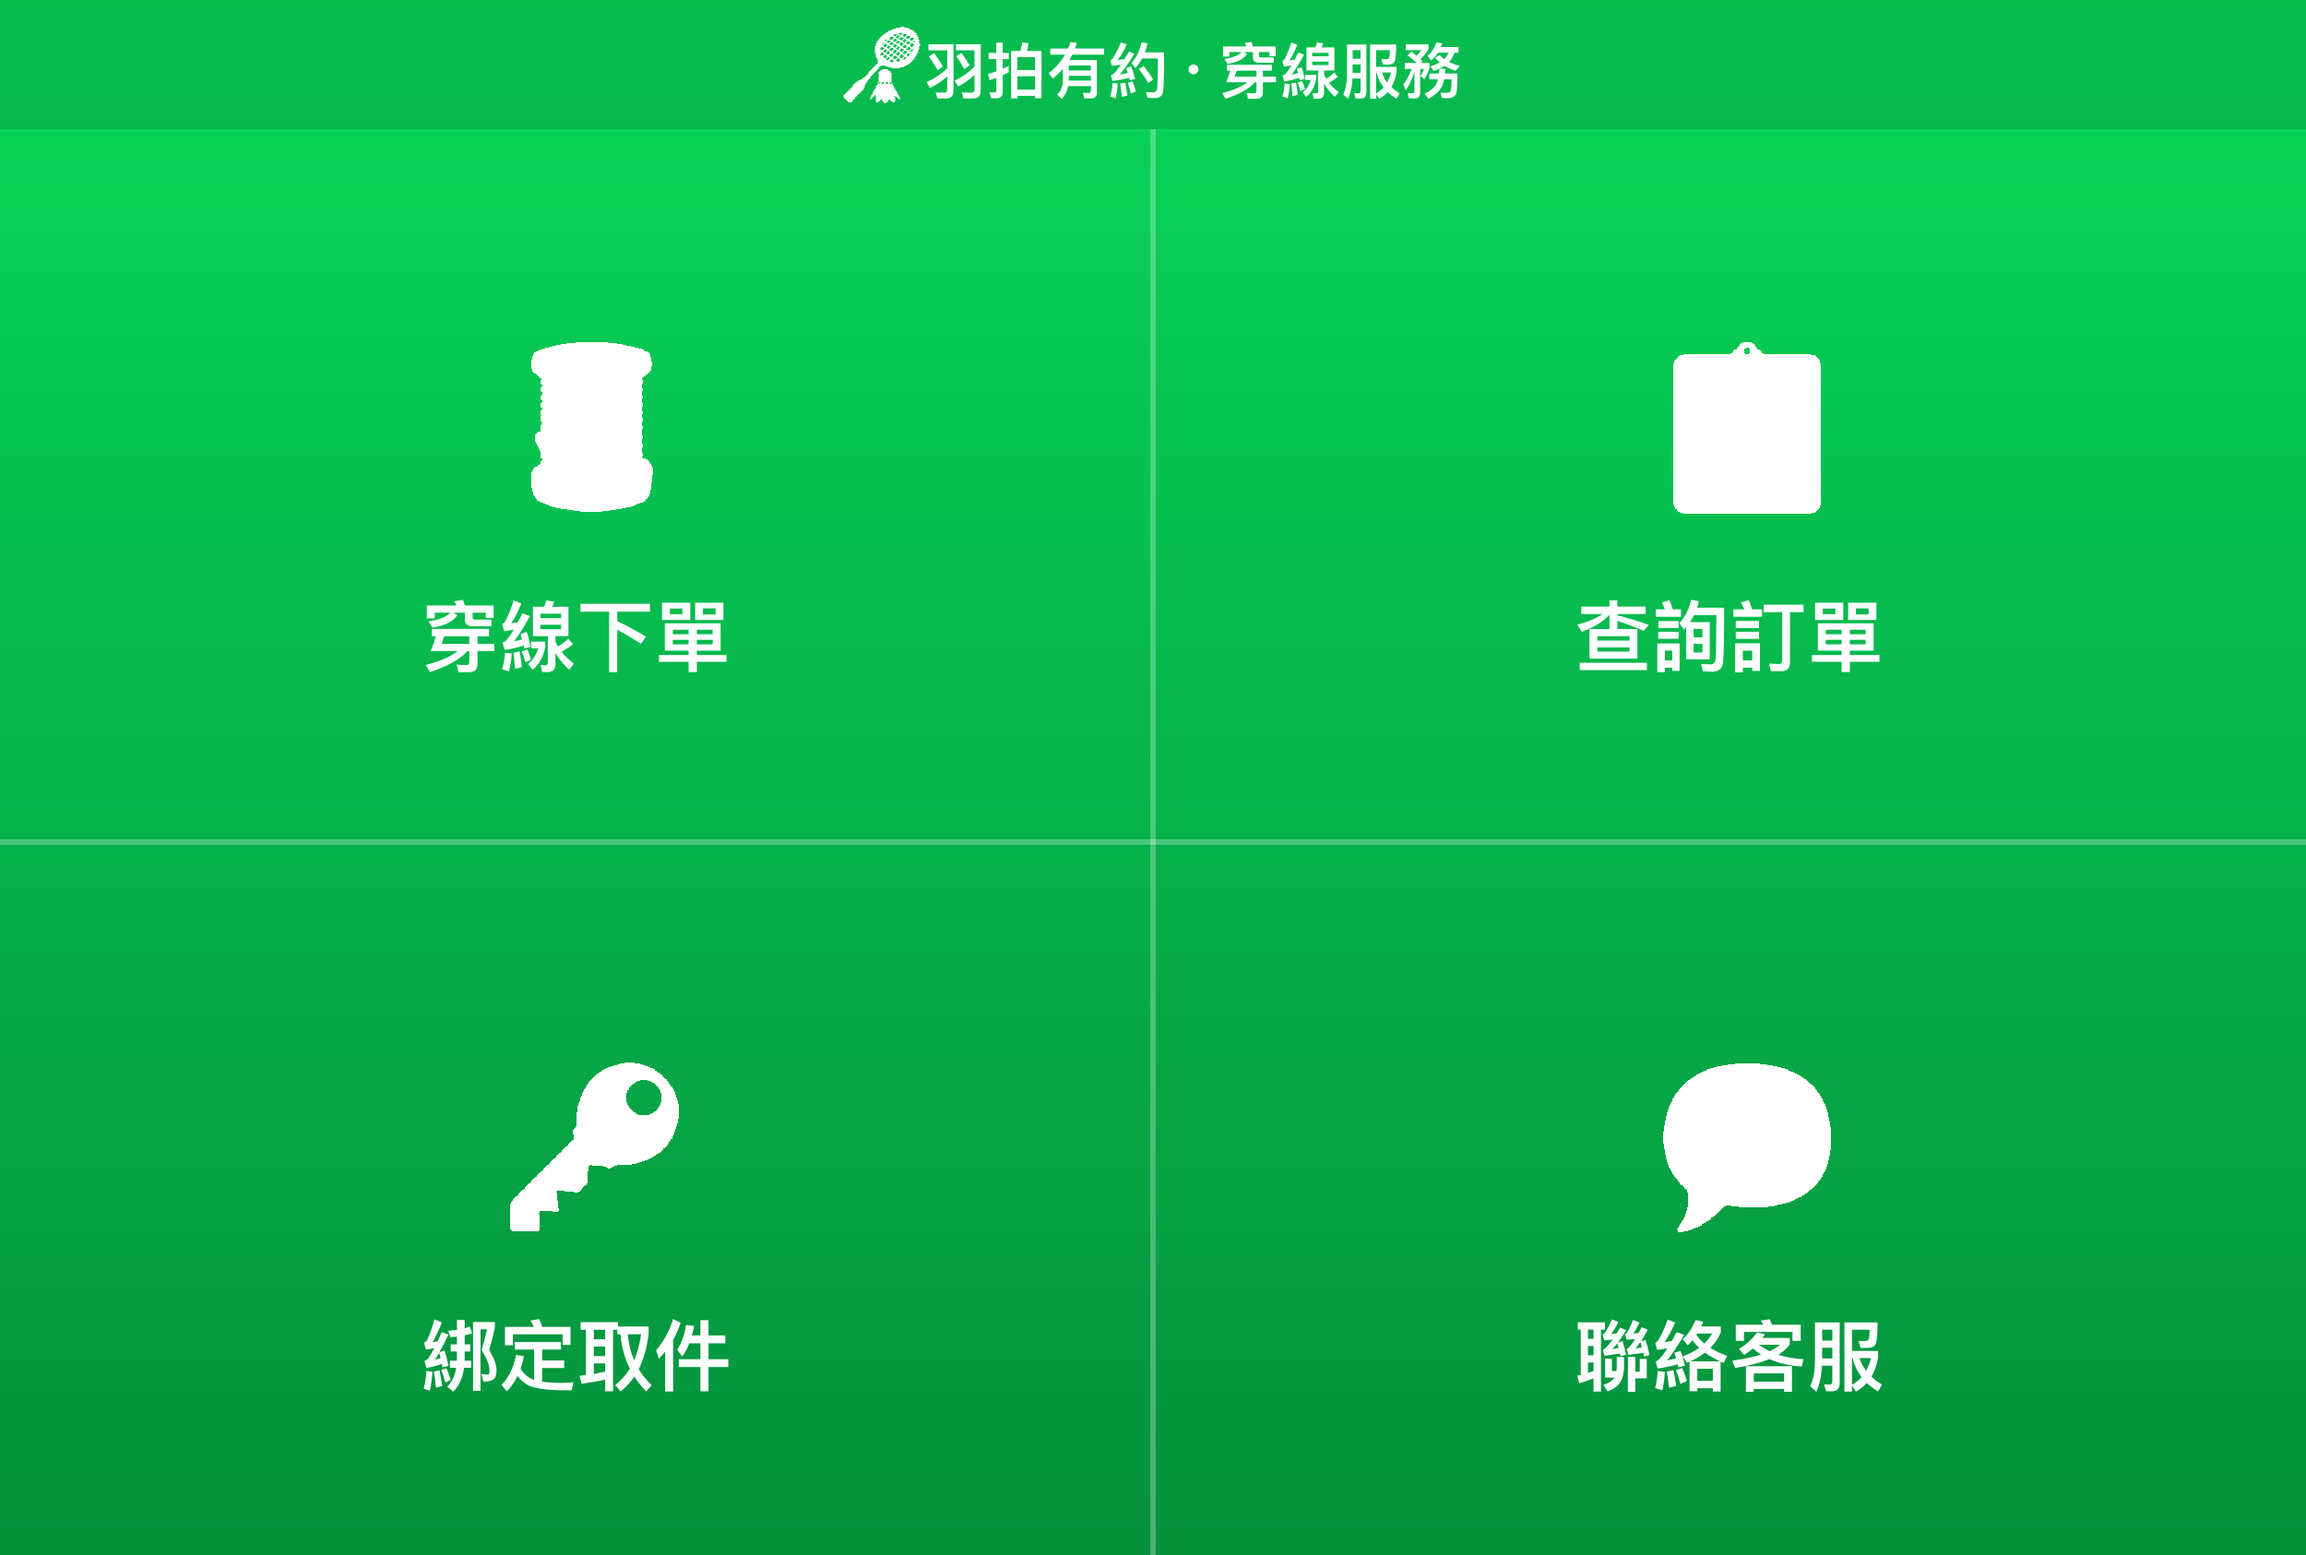
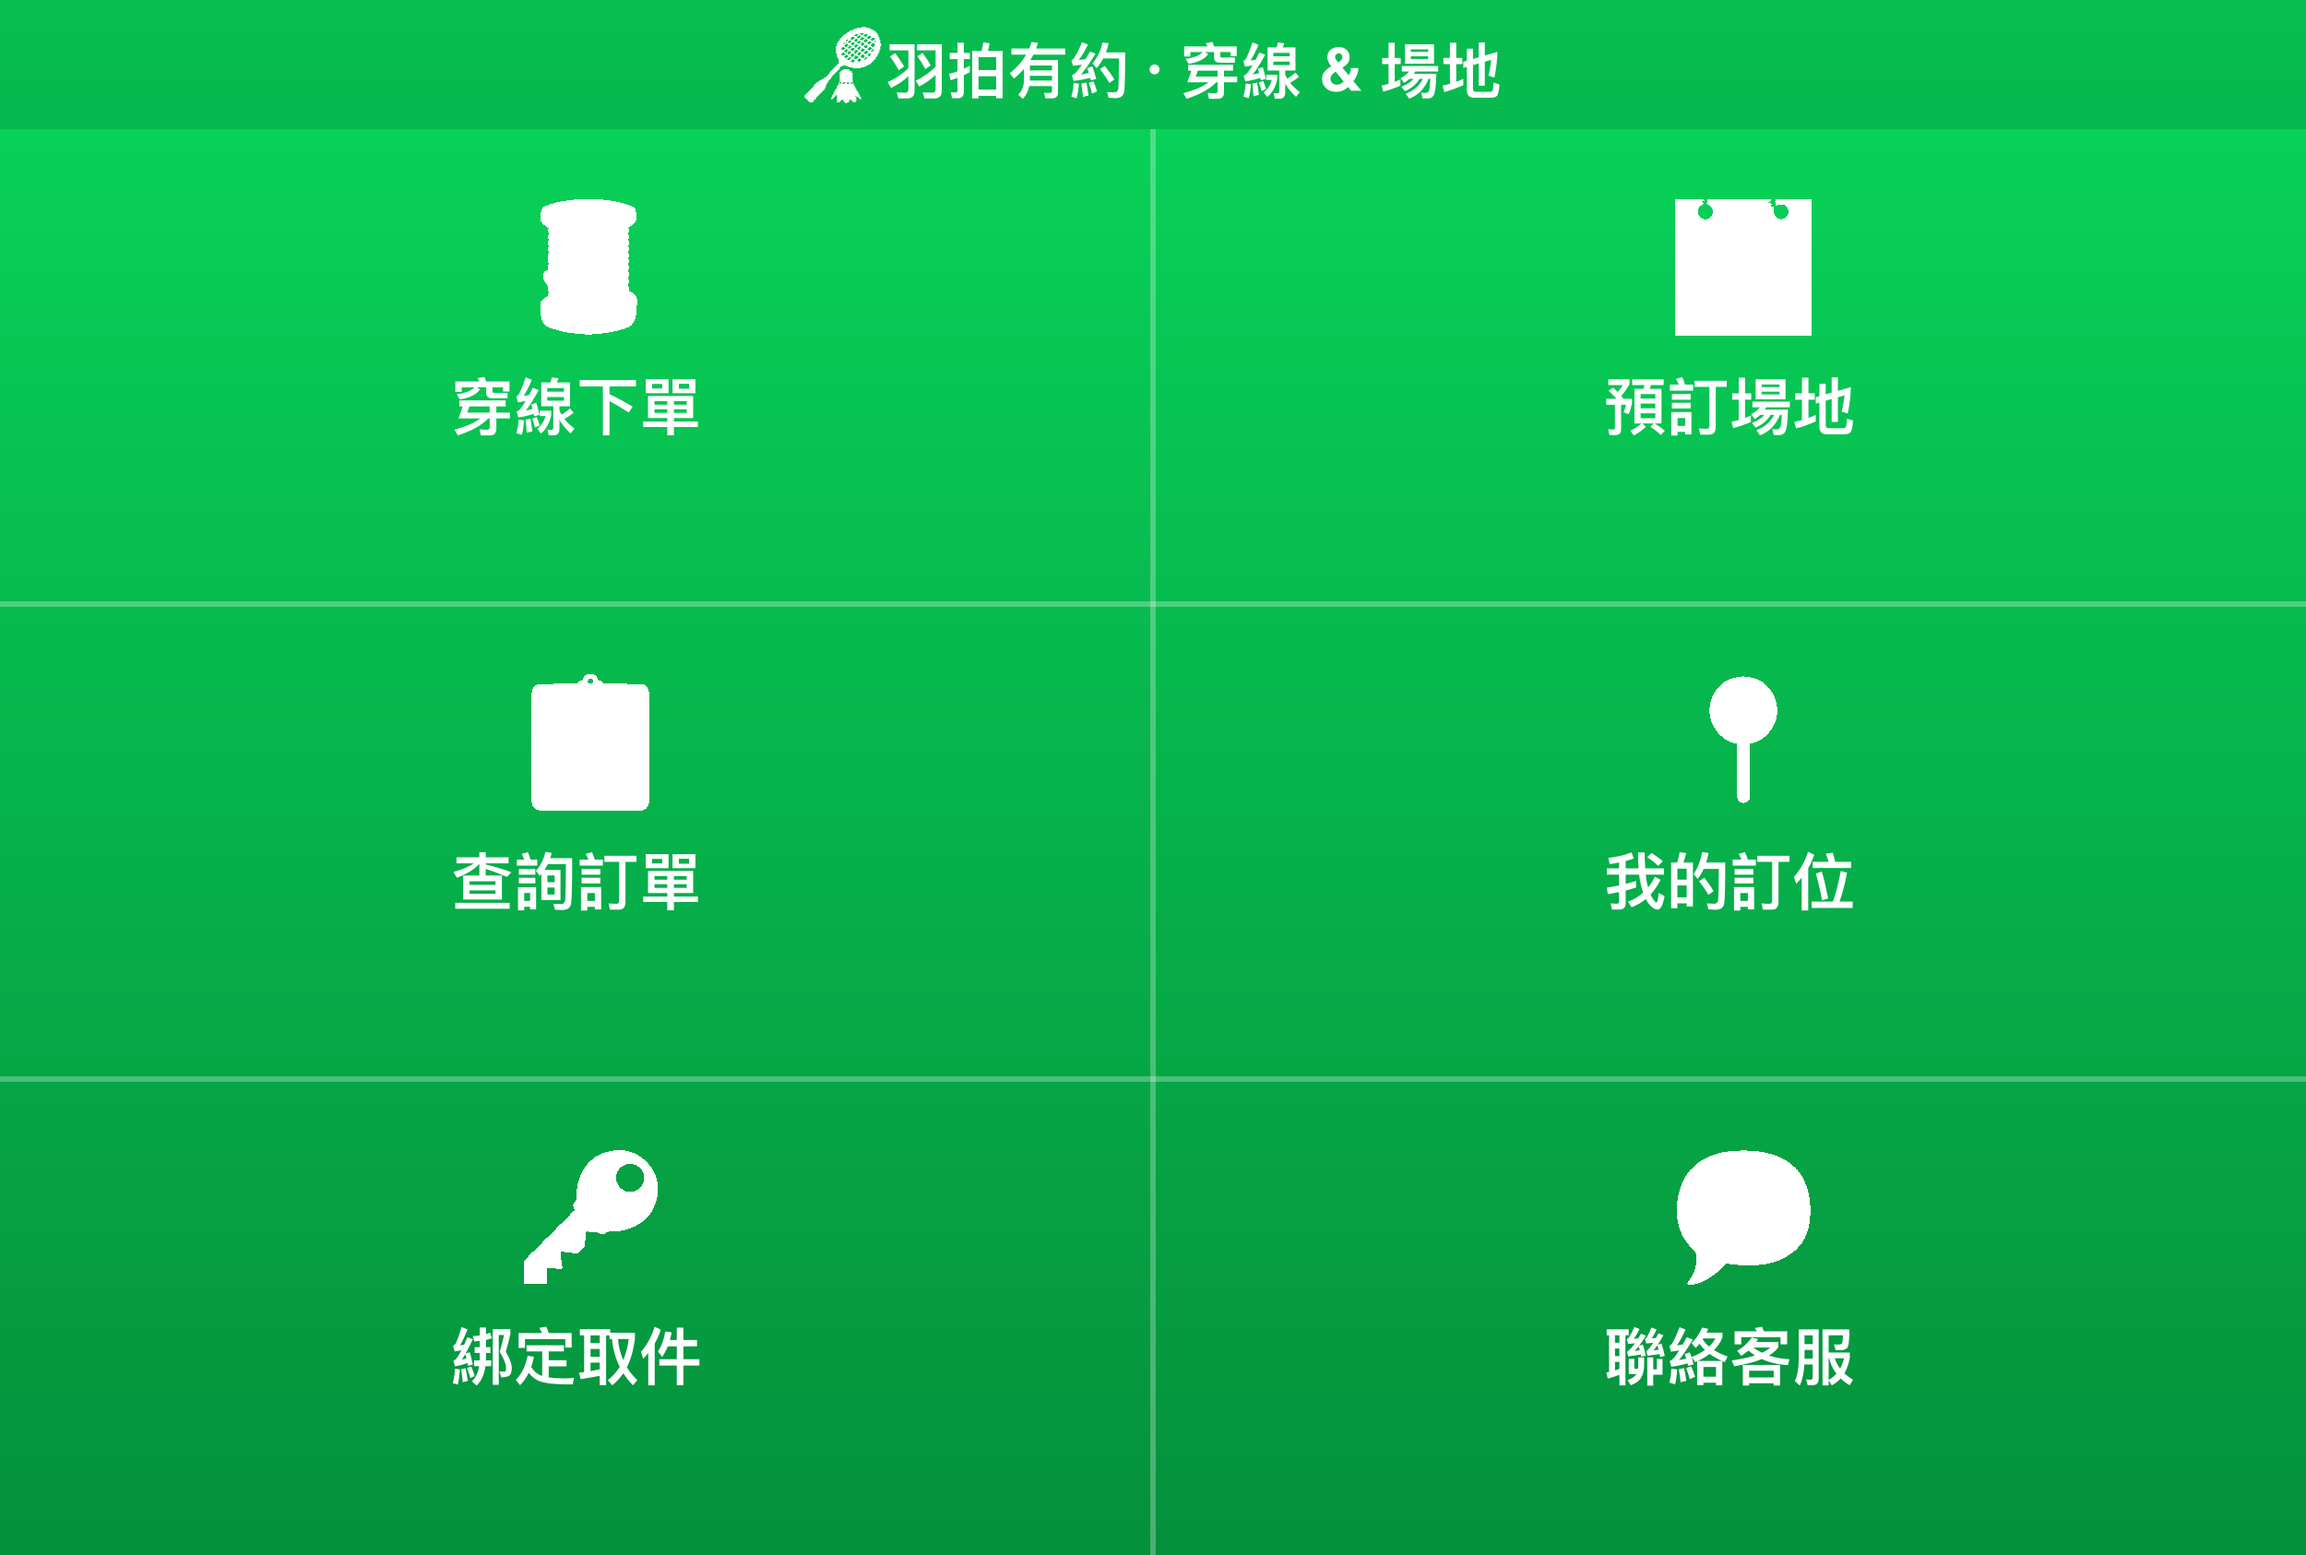
feat(richmenu): 加入預訂場地/我的訂位，改為 2×3 六格選單

diff --git a/tools/setup-richmenu.py b/tools/setup-richmenu.py
@@ -20,11 +20,11 @@ HEADERS = {"Authorization": f"Bearer {TOKEN}", "Content-Type": "application/json
 RICH_MENU = {
     "size": {"width": 2500, "height": 1686},
     "selected": True,
-    "name": "羽拍有約穿線服務選單-v1",
+    "name": "羽拍有約主選單-v2",
     "chatBarText": "開啟選單",
     "areas": [
         {
-            "bounds": {"x": 0, "y": 140, "width": 1250, "height": 773},
+            "bounds": {"x": 0, "y": 140, "width": 1250, "height": 515},
             "action": {
                 "type": "uri",
                 "label": "穿線下單",
@@ -32,7 +32,15 @@ RICH_MENU = {
             }
         },
         {
-            "bounds": {"x": 1250, "y": 140, "width": 1250, "height": 773},
+            "bounds": {"x": 1250, "y": 140, "width": 1250, "height": 515},
+            "action": {
+                "type": "uri",
+                "label": "預訂場地",
+                "uri": "https://liff.line.me/1660947211-e5z12ax6"
+            }
+        },
+        {
+            "bounds": {"x": 0, "y": 655, "width": 1250, "height": 515},
             "action": {
                 "type": "message",
                 "label": "查詢訂單",
@@ -40,7 +48,15 @@ RICH_MENU = {
             }
         },
         {
-            "bounds": {"x": 0, "y": 913, "width": 1250, "height": 773},
+            "bounds": {"x": 1250, "y": 655, "width": 1250, "height": 515},
+            "action": {
+                "type": "uri",
+                "label": "我的訂位",
+                "uri": "https://difly-booking.vercel.app/bookings"
+            }
+        },
+        {
+            "bounds": {"x": 0, "y": 1170, "width": 1250, "height": 516},
             "action": {
                 "type": "message",
                 "label": "綁定取件",
@@ -48,7 +64,7 @@ RICH_MENU = {
             }
         },
         {
-            "bounds": {"x": 1250, "y": 913, "width": 1250, "height": 773},
+            "bounds": {"x": 1250, "y": 1170, "width": 1250, "height": 516},
             "action": {
                 "type": "message",
                 "label": "聯絡客服",
